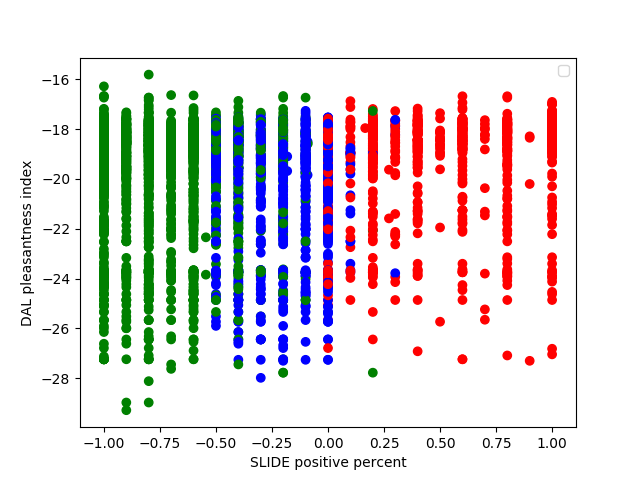
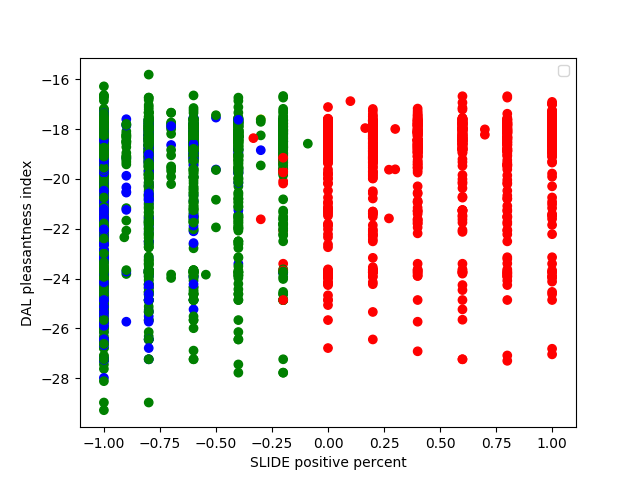
graph

diff --git a/slide.py b/slide.py
@@ -145,7 +145,7 @@ def parse():
 			l = line.split("\t")
 
 			if l[11] != "X":
-				s = float(l[7]) - float(l[9])
+				s = float(l[7]) - float(l[9]) - float(l[8])
 				d = dal_score(l[0])
 
 				if d is None:
